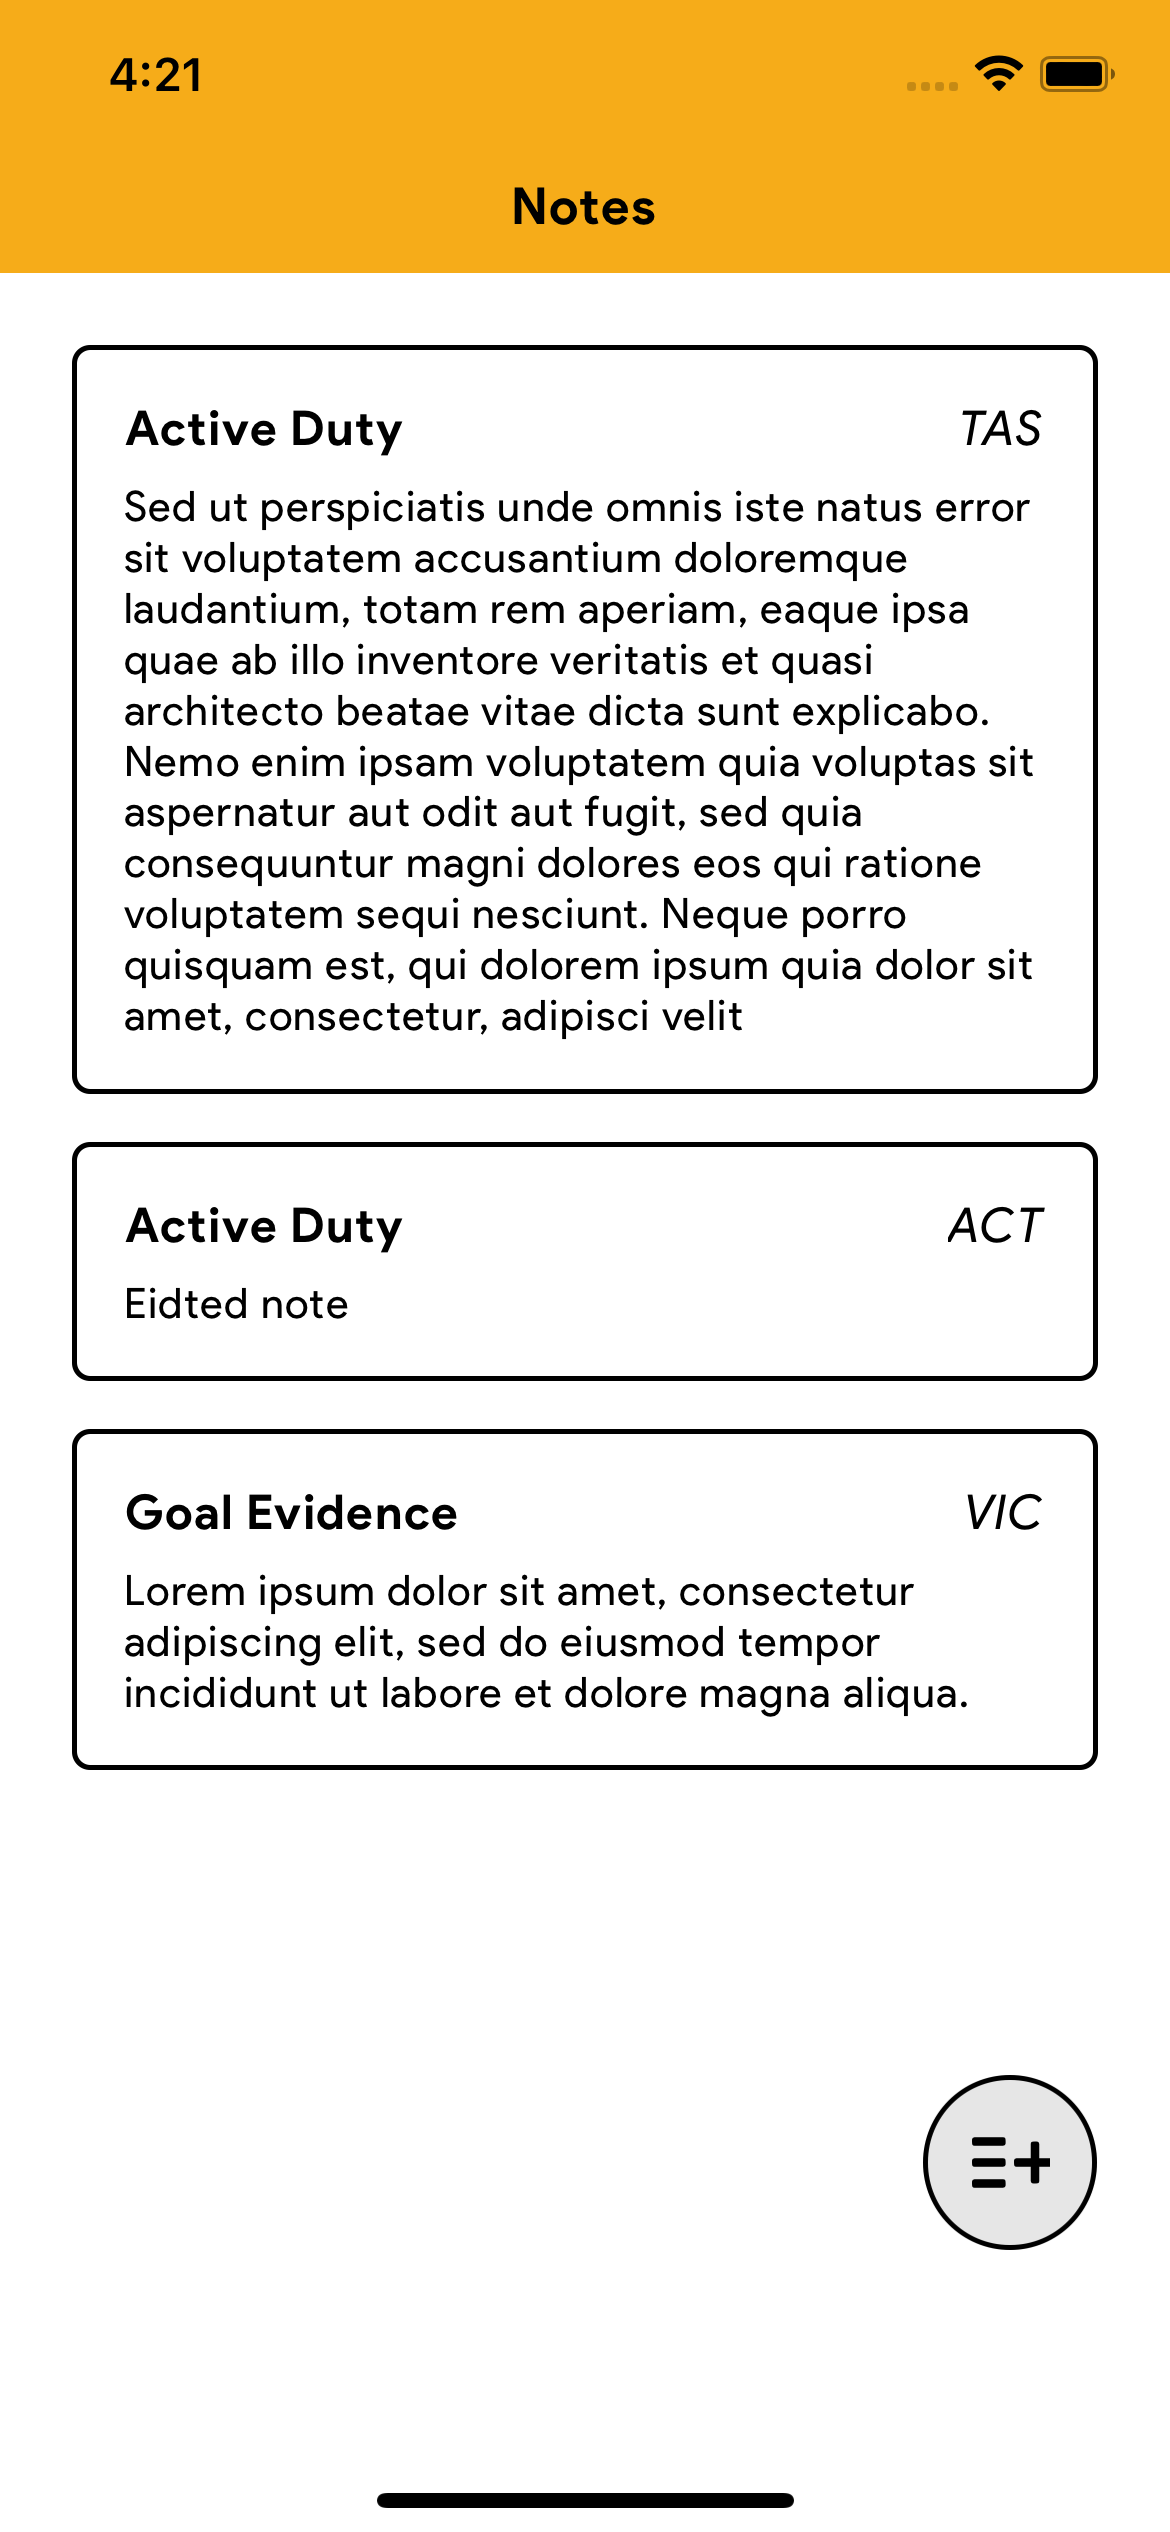
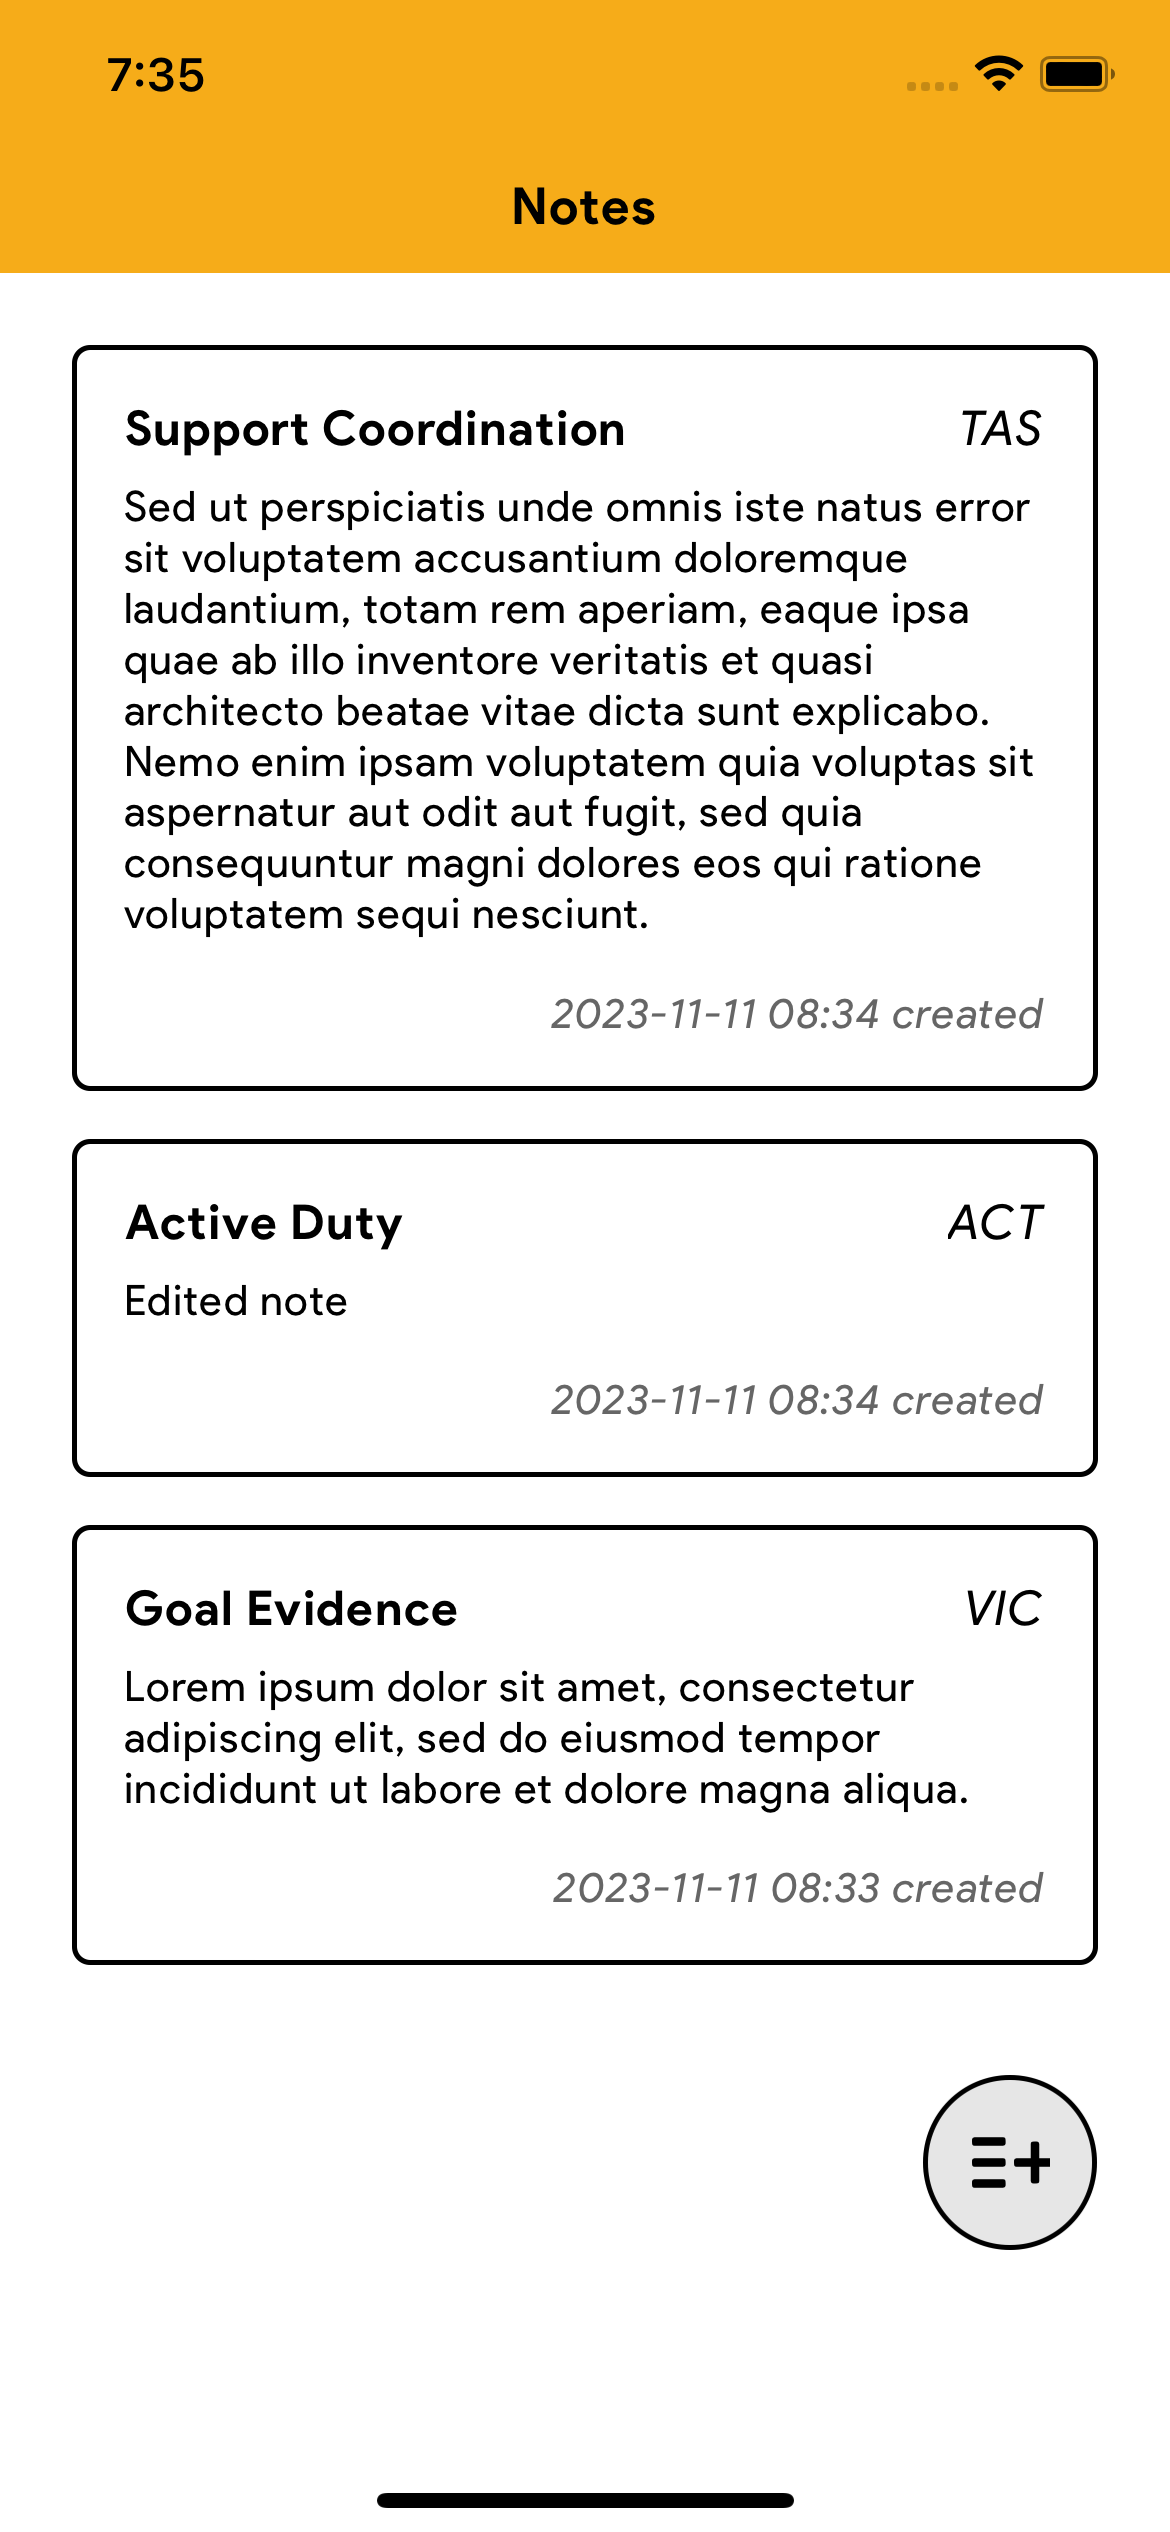
add created time

diff --git a/src/components/NoteListGrid.js b/src/components/NoteListGrid.js
@@ -5,10 +5,13 @@ import {
   StyleSheet,
   TouchableOpacity
 } from 'react-native'
-import { LAYOUT } from '../theme'
+import { COLORS, LAYOUT } from '../theme'
+import { formatDate } from '../utils'
 
 const NoteListGrid = ({ notes, navigation }) => {
   const renderItem = ({ item }) => {
+    const createdTime = formatDate(item.id)
+    console.log(createdTime)
     const onSelectNote = () => {
       navigation.navigate('editNote', item)
     }
@@ -24,6 +27,7 @@ const NoteListGrid = ({ notes, navigation }) => {
           <Text style={styles.titleTxt}>{item.client}</Text>
         </View>
         <Text style={styles.descTxt}>{item.desc}</Text>
+        <Text style={styles.timeTxt}>{createdTime} created</Text>
       </TouchableOpacity>
     )
   }
@@ -72,7 +76,15 @@ const styles = StyleSheet.create({
   descTxt: {
     fontFamily: 'ProductSans',
     letterSpacing: 0.5,
-    fontSize: 14
+    fontSize: 14,
+    marginBottom: LAYOUT['spacing-05']
+  },
+  timeTxt: {
+    fontFamily: 'ProductSansItalic',
+    letterSpacing: 0.5,
+    fontSize: 14,
+    color: COLORS.TEXTGREY,
+    textAlign: 'right'
   },
   hintContainer: {
     marginTop: LAYOUT['spacing-06'],

diff --git a/src/utils/index.js b/src/utils/index.js
@@ -1,0 +1,4 @@
+export const formatDate = (id) => {
+  const date = new Date(id)
+  return date.toISOString().slice(0, 16).replace('T', ' ')
+}
